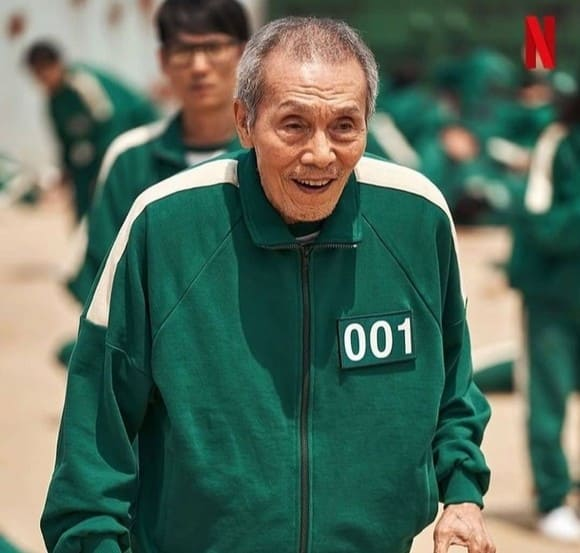
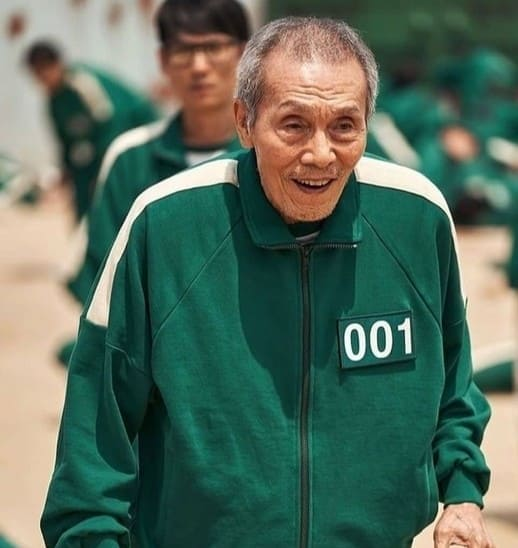
Fix: [일부 이미지 수정 및 압축]

diff --git a/index.js b/index.js
@@ -72,7 +72,7 @@ const questionList = {
 }
 
 const resultList = {
-    EFPG: {"img": "static/성기훈.jpg","name": "성기훈(NO.456)", "oneLine": '"잘 들어. 난 말이 아니야. 사람이야. 그래서 궁금해. 너희들이 누군지, 어떻게 사람에게 이런 짓을 할 수 있는지…"',
+    EFPG: {"img": "static/성기훈3.jpg","name": "성기훈(NO.456)", "oneLine": '"잘 들어. 난 말이 아니야. 사람이야. 그래서 궁금해. 너희들이 누군지, 어떻게 사람에게 이런 짓을 할 수 있는지…"',
     "explain":"오징어게임에 참가한 당신, 따뜻한 인간적인 매력과 자유로움을 가진 인물, 성기훈과 닮은 유형입니다. 항상 타인을 즐겁게 만드는 당신의 주변은 친구가 끊이질 않습니다. 또 항상 새로운 시도와 새로운 사람을 만나는 것을 좋아하는 당신은 자유로운 영혼의 소유자입니다. 때때로 창의적인 모습을 보여줘 주변을 놀라게하고는 합니다. 이제 당신은 오징어 게임에서 그런 당신의 특성을 활용하여 살아남아야 합니다. 낯선 타인과 함께하며 게임에서 분위기를 주도하는 당신. 때로는 당신의 엉뚱함이 게임을 풀어나갈 키가 되기도 할 것입니다. 하지만 너무 사람을 믿지 마십쇼. 아픔은 당신의 몫입니다."},
     ETJB: {"img": "static/조상우.jpg","name": "조상우(NO.218)", "oneLine": '“어차피 우리가 저 돈 가지고 나가려면 다른 놈들 다 죽어야 돼. 형 손에 피 안 묻히게 해줬으면 오히려 고마워해야 되는 거 아니야?”',
     "explain":"오징어게임에 참가한 당신, 팀을 이끌지만 자신의 이익을 위해서라면 한없이 냉정한 인물, 조상우와 비슷한 유형입니다. 천성적으로 타고난 리더인 당신은 자신감과 현명한 모습으로 사람들을 이끌어 왔습니다. 계획적이고, 승부욕이 넘치는 당신은 많은 성공을 거두었지만, 때때로 냉정하다는 소리를 듣고는 합니다. 이제 당신은 오징어 게임에서 그런 당신의 특성을 활용하여 살아남아야 합니다. 전략적인 사고와 빠른 판단력을 이용해 게임에서 남들을 이끌며, 때로는 자신을 위해 남들을 희생시키며 나아갈 것입니다. 게임에서 무엇보다 자기 자신을 잃지 않도록 조심해야할 것입니다."},
@@ -84,11 +84,11 @@ const resultList = {
     "explain":"오징어게임에 참가한 당신, 참가자 중 가장 강렬한 인물, 장덕수와 닮은 유형입니다. 당신은 스릴 있는 것을 즐기며, 남의 눈치를 보지 않는 마이웨이입니다. 주변에 일어나는 일에 관심이 많지만 깊게 생각하는 것은 딱 질색이며 경쟁, 내기를 좋아합니다. 긴 설명을 싫어하고 감각적입니다. 누구보다도 현실적이어서 문제를 빠르게 해결하는 당신은 든든한 해결사입니다. 이제 당신은 오징어 게임에서 그런 당신의 특성을 활용하여 살아남아야 합니다. 현실적이고 직관적인 판단력으로 게임에서 승부하는 당신. 남보다는 내가 무엇보다도 중요합니다. 물론 그런 당신을 싫어하는 무리도 있겠습니다만… 이건 이런 게임일 뿐입니다."},
     ETPG: {"img": "static/한미녀.jpg","name": "한미녀(NO.212)", "oneLine": '“니들 지금 실수하는 거야. 니들 정말 나 없이 이길 수 있을 거 같애? 나 한미녀야!”',
     "explain":"오징어게임에 참가한 당신, 목적 달성을 위해서라면 자존심도 기꺼이 버리는 인물, 한미녀와 닮은 유형입니다. 다재 다능한 팔방미인인 당신은 상대방에게 호감을 잘 표현하기도, 잘 사기도 합니다. 당신은 자신감과 자존감이 매우 높습니다. 당신은 타인과 교류는 즐기지만, 정서적인 교류에는 큰 관심이 없고, 때때로 사람들이 귀찮다고 생각이 들기도 합니다. 이제 당신은 오징어 게임에서 그런 당신의 특성을 활용하여 살아남아야 합니다.사람들 사이에서, 강자와 함께 행동하며 항상 이기는 편과 함께할 것입니다. 자기 주장이 강하기에 항상 직설적으로 말하는 당신. 필요하다면 선의의 거짓말을 하는 것이 더 나을 수도 있음을 이 게임을 통해 배울 것입니다."},
-    IFPB: {"img": "static/알리압둘.png","name": "알리 압둘(NO.199)", "oneLine": '“사장님들 다시 만나서 반갑습니다”',
+    IFPB: {"img": "static/알리.jpg","name": "알리 압둘(NO.199)", "oneLine": '“사장님들 다시 만나서 반갑습니다”',
     "explain":"오징어 게임에 참가한 당신, 위험을 무릅쓰고 타인을 구하는 순수하고 정의로운 마음을 가진 인물, 알리 압둘과 닮은 유형입니다. 당신은 타인의 감정을 살피며 배려하는 것이 익숙합니다. 때로는 손해를 본적도 많지만, 자기 자신을 잘 내세우지 않고 주변을 따라가는 편이며, 착하다는 이야기를 많이 듣습니다. 다른 사람의 불편함을 외면하지 못하는 당신은 선행의 아이콘입니다. 이제 당신은 오징어 게임에서 그런 당신의 특성을 활용하여 살아남아야 합니다. 이기적인 사람들 사이에서, 당신은 끝까지 남을 도우면서 살아남을 수 있을까요? 선행이 항상 선행으로 돌아오지 않는다는 교훈을 당신은 이 게임을 통해 배울 것입니다."},
     IFPG: {"img": "static/지영.jpg","name": "지영(NO.240)", "oneLine": '“너는 여기서 나갈 이유가 있지만, 난 없어”',
     "explain":"오징어게임에 참가한 당신, 염세주의적 시선을 가졌지만, 동시에 매우 순수한 마음씨를 가진 인물, 지영이와 닮은 유형입니다. 이 유형은 낭만적이고 따뜻한 마음을 가졌습니다. 자신이 지향하는 이상에 정열적이고 내적 신념이 깊습니다. 그런 당신은 현실감각이 둔하고 몽상가적 기질이 많습니다. 이제 당신은 오징어 게임에서 그런 당신의 특성을 활용하여 살아남아야 합니다. 평소 따뜻하고 순수한 마음을 가진 당신은 그런 당신의 여린 모습을 숨기고 사람들 사이에서 버텨야 합니다. 게임에 큰 관심을 가지지 않고, 큰 욕망도 없지만 그런 당신이기에 이 게임에서 살아남을 수 있을 것입니다."},
-    ITJB: {"img": "static/프론트맨.png","name": "프론트맨", "oneLine": '“Front man speaking”',
+    ITJB: {"img": "static/프론트맨2.png","name": "프론트맨", "oneLine": '“Front man speaking”',
     "explain":"오징어게임에 참가한 당신, 가면으로 목소리를 숨기고 있지만, 넘치는 카리스마로 게임을 진행하는 최고관리자 프론트맨과 닮은 유형입니다. 당신은 한번 일을 맡으면 모든 책임을 다하고 신중하게 처리하며 계획적인 성격을 가졌습니다. 목표를 달성하기 위해 시간과 에너지를 허투루 쓰지 않으며 계획과 원칙을 중요시합니다. 때로는 딱딱하다는 사람들도 있지만, 필요한 말만 할 뿐입니다. 이제 당신은 오징어 게임에서 그런 당신의 특성을 활용하여 살아남아야 합니다. 최고관리자인 당신은 책임감을 가지고 신중하게 게임을 진행할 것입니다. 모든 것은 당신의 통제 하에 있으며, 무슨 일이 있어도 원칙은 지켜질 것입니다. 무슨 일이 있더라도…"},
     ITPG: {"img": "static/황준호.jpg","name": "황준호", "oneLine": '“이 게임에 대해서 네가 아는 거 다 얘기해”',
     "explain":"오징어게임에 참가한 당신, 실종된 형의 행방을 찾아 목숨을 걸고 나서는 경찰, 황준호와 닮은 유형입니다. 관찰력이 뛰어나며 호기심이 많고 탐색하는 것을 좋아합니다. 조용하고 과묵하며 무뚝뚝한 경향이 있지만, 항상 에너지를 천천히 쌓고 있는 중입니다. 침착하지만 때로는 과감하게 움직이는 당신은 냉철한 판단과 실행착오를 통해 앞으로 나아갔을 것입니다. 이제 당신은 오징어 게임에서 그런 당신의 특성을 활용하여 살아남아야 합니다. 게임에 숨어서 형의 행방을 찾고 있는 당신은 침착하지만 과감하게 움직여 단서를 찾을 것입니다. 하지만 진실은 때로는 당신의 예상을 뛰어넘고는 합니다."},
@@ -98,7 +98,7 @@ const resultList = {
     "explain":"오징어게임에 참가한 당신, 오징어게임의 시작을 알리는 인물, 딱지 치는 남자와 닮은 유형입니다. 당신은 사람의 성격을 잘 파악하지만, 실용적이고 현실적인 인물로 능청맞다는 이야기를 듣기도 합니다. 리더쉽이 있고, 조직적이고 무게감이 있는 모습을 보여주기도 하지만 스스로에게 엄격하고 현실적인 유형이기도 합니다. 본인의 배려를 주변에게 보여주기도 하는 사회생활 고수인 당신입니다. 이제 당신은 오징어 게임에서 그런 당신의 특성을 활용하여 살아남아야 합니다. 당신은 이 게임에 들어올 사람들을 하나씩 설득해야 합니다. 눈웃음과 사람을 다루는 능력, 출중한 게임 실력까지 모두 갖춘 당신. 웃음 뒤에 감춰진 모습으로 사람들을 현혹하고 모으는 당신이 이제 게임의 시작을 알립니다."},
     IFJB: {"img": "static/진행요원.jpg","name": "진행요원", "oneLine": '"이자리에 오신 여러분을 진심으로 환영합니다."',
     "explain":"오징어게임에 참가한 당신, 가면으로 신원을 가리고 주어진 역할을 묵묵히 수행하는 진행요원과 닮은 유형입니다. 당신은 눈치가 빠르고 통찰력, 영감이 뛰어난 사람입니다. 사람에 대한 통찰력이 뛰어나기에 남을 잘 의식하는 편입니다. 또 계획을 중요시하며 계획을 지키는 것과 원칙을 중요하게 생각합니다. 낯가림이 심하기 때문에 타인을 만나는 것을 싫어하는 편입니다. 이제 당신은 오징어게임에서 그런 당신의 특성을 활용하여 살아남아야 합니다. 진행 요원으로서 주어진 역할을 묵묵히 수행하며, 모든 규칙을 준수해야 합니다. 가면을 벗지 말고, 감정도 드러내지 마십쇼. 그렇지 않으면 끔찍한 처벌만이 당신을 기다릴 뿐입니다. 당신도 그저 게임의 일부일 뿐입니다."},
-    EFPB: {"img": "static/첫사망자.png","name": "최초 탈락자(NO.324)", "oneLine": '“내기할래? 누가 먼저 골인하나? 100만원 빵 콜!”',
+    EFPB: {"img": "static/첫사망자.jpg","name": "최초 탈락자(NO.324)", "oneLine": '“내기할래? 누가 먼저 골인하나? 100만원 빵 콜!”',
     "explain":"오징어게임에 참가한 당신, 첫번째 게임에서 가장 먼저 달려나가지만 최초로 탈락하는 인물, 324번 참가자와 닮은 유형입니다. 어떠한 상황에서도 에너지가 넘치는 낙관 주의자로, 매사에 즐거워하고 심각한 상황에도 여유가 있습니다. 새로운 시도에 거리낌이 없는 당신은 어디를 가든 분위기 메이커이며 재치 있는 성격으로 친구가 많습니다. 가벼운 이미지로 오해를 받기도 하지만 비교도 안 되는 매력으로 남들을 끌어당깁니다. 이제 당신은 오징어 게임에서 그런 당신의 특성을 활용하여 살아남아야 합니다. 과감한 움직임과 스포트라이트를 즐기는 당신! 괜찮습니다. 뭐 즐거웠으면 됐죠!"},
     ITPB: {"img": "static/vip.jpg","name": "VIP", "oneLine": '"아무리 중계를 잘해도 직접 관람하는 재미를 이길수는 없지"',
     "explain":"오징어게임에 참가한 당신, 가면 뒤에 숨어서 사람들을 지켜보는 유형인 VIP와 닮은 유형입니다. 당신은 평범함을 거부하며, 당신의 독특한 관심분야와 호기심을 즐깁니다. 또 이것에 나름의 자부심이 있기도 합니다. 이런저런 몽상에 사로잡혀 있는 것이 대부분이며, 가장 합리적으로 사고하고 생각하지만, 가장 감정적이기도 한 당신입니다. 평소 여유롭고, 편안한 상태의 당신이지만, 상대방으로부터 비판을 받는 경우에는 쉽게 흥분하고는 합니다. 개인의 취향이 확실하여 호불호가 뚜렷한 편에 속합니다. 그런 당신은 그런 독특함을 통해 성공하였고, VIP가 되어 지금 이 자리에 있습니다. 이제 당신은 오징어 게임에서 VIP답게 열심히 즐기시면 됩니다. 모든 것은 당신 아래에 있으며, 규칙 또한 그 예외는 아닙니다."},
